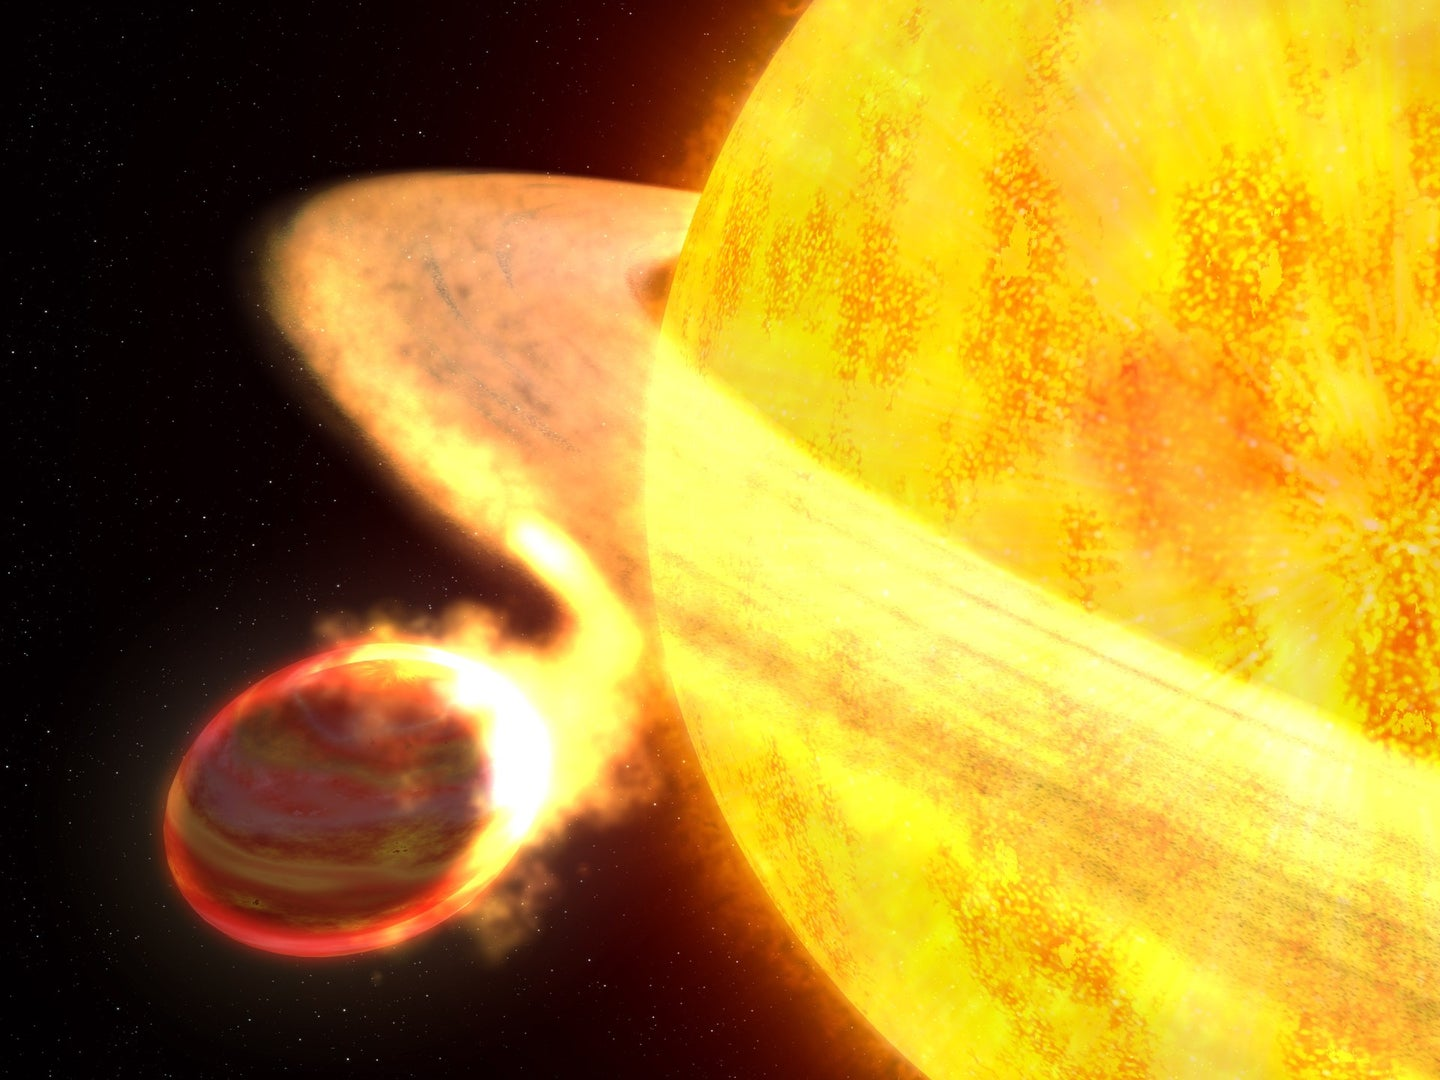
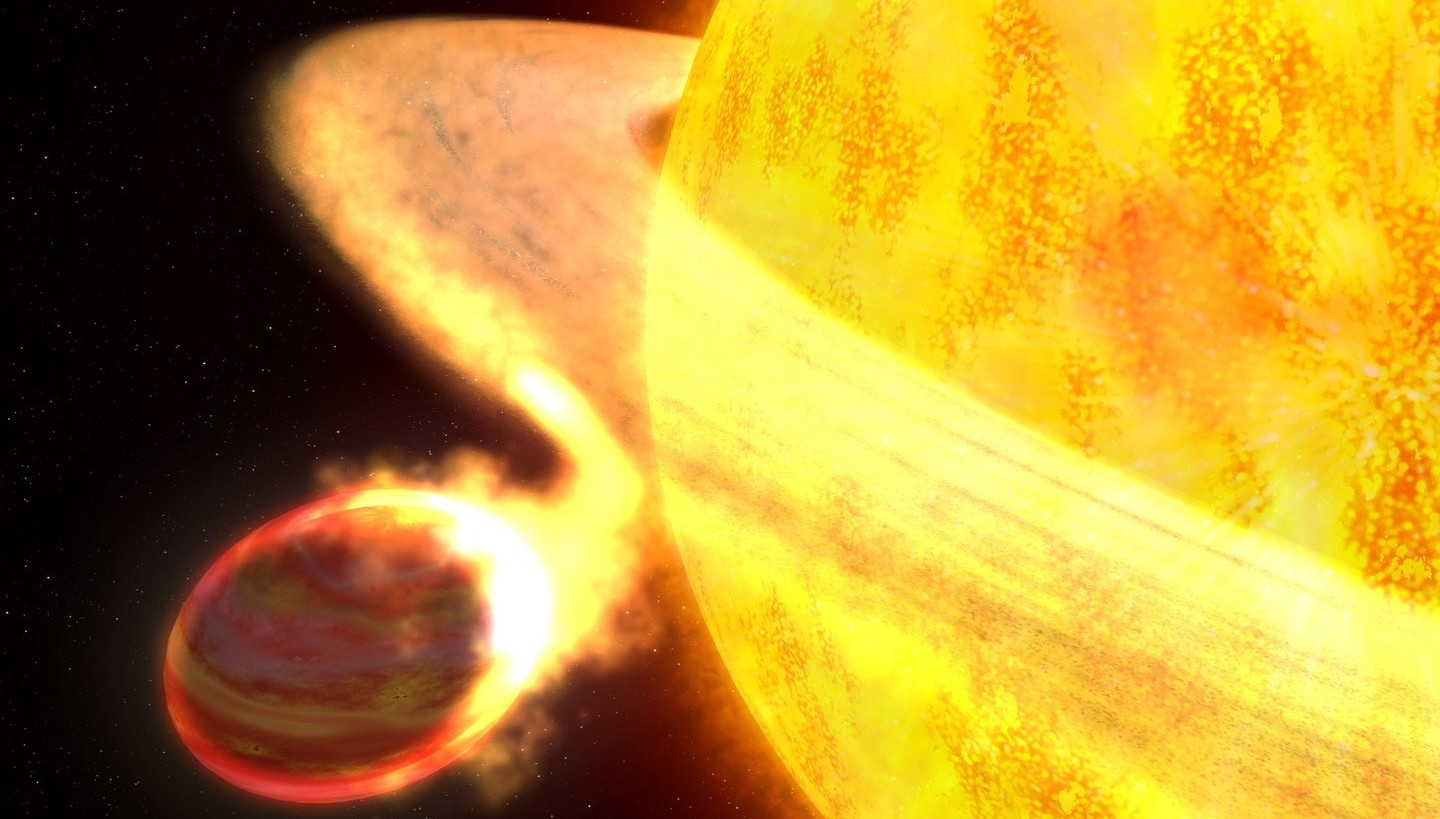
(CPSII) update

diff --git a/_pages/ComplexPlanetarySystemsII.md b/_pages/ComplexPlanetarySystemsII.md
@@ -8,33 +8,35 @@ permalink: /talks/ComplexPlanetarySystemsII
 <div class="jumbotron">
 <div class="col-md-12 col-sm-12" style="text-align:justify">
 <h4>Towards a complete picture of the evolution of planetary systems around evolved stars</h4>
-<img src="{{site.url}}{{site.baseurl}}/images/Talks/ComplexPlanetarySystemsII/HRsite.png" style="width:400px; min-width:39%; max-width:100%; margin-left:20px; margin-right:0px; margin-bottom:0px; margin-top:0px;" align="right"/>
-About 95% of all stars in the galaxy have an initial mass lower than 8 solar masses. When these stars evolve off the Main Sequence, they will go through the Asymptotic Giant Branch (AGB) phase, just before turning into a White Dwarf (WD). This phase is characterized by increased radii, high luminosities, intense pulsations, and significant mass loss. In order to get a complete picture of the evolution of planetary systems from the birth to the end of their host stars, as well as to comprehend the survival of planetary or stellar companions during this phase and explain the presence of planets orbiting white dwarfs, it is essential to examine the orbital evolution of these systems. Several factors come into play for studying orbital evolution around AGB stars, such as the significant stellar mass-loss rate, the efficiency of mass accretion onto the companion, and the tidal interactions between the star and its companion.
+<img src="{{site.url}}{{site.baseurl}}/images/Talks/ComplexPlanetarySystemsII/HRsite_transp.png" style="width:400px; min-width:39%; max-width:100%; margin-left:20px; margin-right:0px; margin-bottom:0px; margin-top:0px;" align="right"/>
+About 95% of all stars in the galaxy have an initial mass lower than 8 solar masses. When these stars evolve off the main sequence, they will go through the Asymptotic Giant Branch (AGB) phase, just before turning into a white dwarf.  This phase is characterized by increased radii, high luminosities, intense pulsations, and significant mass loss. In order to get a complete picture of the evolution of planetary systems from the birth to the end of their host stars, as well as to understand the survival of planetary or stellar companions during this phase and explain the presence of planets orbiting white dwarfs, it is essential to examine the orbital evolution of these systems. Several physical mechanisms come into play for studying orbital evolution around AGB stars, such as the significant stellar mass-loss rate, the efficiency of mass accretion onto the companion, and the tidal interactions between the star and its companion.
 </div>
 </div>
 
 
 <div class="jumbotron">
 <div class="col-md-12 col-sm-12" style="text-align:justify">
-<h4>3D simulations of AGB stellar winds</h4>
-<img src="{{site.url}}{{site.baseurl}}/images/Talks/ComplexPlanetarySystemsII/planet.png" style="width:260px; min-width:26%; max-width:100%; margin-left:0px; margin-right:20px; margin-bottom:0px; margin-top:5px;" align="left"/>
-AGB stars lose a significant amount of mass through the so-called dust-driven wind. Pulsations at the surface of AGB stars push material into sufficiently high layers where it is cool enough for molecules to condensate into dust. These dust particles are opague, such that they can be pushed outward by radiation pressure. Finally the dust particles collide with the remaining gas particles and create a steady outflow of material. These outflows from AGB stars exhibit complex structures, such as arcs, spirals. The current theory suggests that these complexities are caused by an unseen companion. To understand this phenomenon, complex 3D hydrochemical simulations are necessary to understand the influence a companion can have on the morphological structures of AGB outlows. These simulations also allow us to investigate the impact of the companion on the star's mass loss rate and the efficiency of accretion onto the companion. However, the existing simulations are computationally demanding, and ongoing efforts are concentrated on enhancing the computational speed.
+<h4>3D radiation-hydro-chemical simulations of AGB stellar outflows</h4>
+<img src="{{site.url}}{{site.baseurl}}/images/Research/2Dplotrho_orbital2.png" style="width:360px; min-width:30%; max-width:100%; margin-left:0px; margin-right:20px; margin-bottom:0px; margin-top:5px;" align="left"/>
+AGB stars lose a significant amount of mass through the so-called dust-driven wind. Pulsations at the surface of AGB stars push material into sufficiently high layers where it is cool enough for molecules to condensate into dust. These dust particles are opague, such that they can be pushed outward by radiation pressure. Finally the dust particles collide with the remaining gas particles and create a steady outflow of material. These outflows from AGB stars exhibit complex structures, such as arcs, spirals. The current theory suggests that these complexities are caused by an unseen companion. To understand this phenomenon, complex 3D radiation-hydro-chemical simulations are necessary to understand the influence a companion can have on the morphological structures of AGB outlows. These simulations will also allow us to investigate the impact of the companion on the star's mass loss rate and the efficiency of accretion onto the companion. However, the existing simulations are computationally demanding, and ongoing efforts are concentrated on enhancing the computational speed.
+
 </div>
 </div>
 
 
 <div class="jumbotron">
 <div class="col-md-12 col-sm-12" style="text-align:justify">
-<h4>Tidal dissipation around evolved stars</h4>
-<img src="{{site.url}}{{site.baseurl}}/images/Talks/ComplexPlanetarySystemsII/Tides.png" style="width:400px; min-width:39%; max-width:100%; margin-left:20px; margin-right:0px; margin-bottom:0px; margin-top:0px;" align="right"/>
-Tidal dissipation encompasses two components: equilibrium and dynamical tides. The former occurs due to the gravitational pull of the companion, causing a deformation of the star. Viscosity creates a tidal lag which facilitates transfer of angular momentum. The latter involves secondary effects, such as pulsations, which are influenced by the star’s internal structure. AGB stars possess a convective envelope exciting inertial modes and a radiative core exciting gravity waves in response to tides. The dissipation of these waves varies depending on the boundary conditions. While for main-sequence stars static boundary conditions are adequate, the substantial mass loss of AGB stars necessitates the exploration of more suitable boundary conditions.
+<h4>Identifying tidal dissipation mechanisms around evolved stars</h4>
+<img src="{{site.url}}{{site.baseurl}}/images/Talks/ComplexPlanetarySystemsII/NS_0051.png" style="width:190px; min-width:19%; max-width:41%; margin-left:0px; margin-right:0px; margin-bottom:-30px; margin-top:0px;" align="right"/>
+<img src="{{site.url}}{{site.baseurl}}/images/Talks/ComplexPlanetarySystemsII/geogebra-export.png" style="width:210px; min-width:21%; max-width:59%; margin-left:0px; margin-right:0px; margin-bottom:0px; margin-top:0px;" align="right"/>
+Tidal dissipation encompasses two components: equilibrium and dynamical tides. The former occurs due to hydrostatic displacement induced by the ellipsoidal deformation triggered by the companion. Its energy is dissipated because of turbulent friction in convective layers, generating transfer of angular momentum between the spin and the orbit. The latter involves other effects (sometimes more significant than the equilibrium tide), such as pulsations, which are influenced by the star’s internal structure, which can be seen on the figure on the left. AGB stars possess a convective envelope exciting inertial modes (only for stellar companions, as planetary companions don't spin up the the star sufficiently) and a radiative core exciting low-frequency gravity waves in response to tides. The figure on the right shows the important frequencies in this regard, showing the Brunt–Väisälä frequency, the Lamb frequency, and the tidal frequency our earth would have if it were to orbit an AGB star. The dissipation of these waves varies depending on the boundary conditions chosen for the star. While for main-sequence stars static boundary conditions are adequate, the substantial mass loss of AGB stars necessitates the exploration of more suitable boundary conditions, like a dynamical (mass losing) outer boundary.
 </div>
 </div>
 
 <div class="jumbotron">
 <div class="col-md-12 col-sm-12" style="text-align:justify">
-<h4>The connection between tides and mass loss</h4>
-AGB winds are driven by pulsations, and tides may induce pulsations. Hence tides can result in an increased mass-loss rate. Mass loss modifies the tidal dissipation boundary conditions. Hence, mass-loss may induce additional dissipation.
+<h4>The interplay between winds, pulsations, and tides</h4>
+Tidal dissipation and mass loss are not problems that can be treated separatly. The AGB's dust-driven winds are initiated by pulsations, while the presence of tides may induce additional pulsations. Hence tides can result in an increased mass-loss rate. On the other hand, mass loss may dissipate energy stored in tidal waves moving passing through the surface of the star (which is moddeled by a dynamical outer boundary). Hence, mass-loss may induce additional dissipation of tidal energy.
 </div>
 </div>
 
@@ -42,8 +44,13 @@ AGB winds are driven by pulsations, and tides may induce pulsations. Hence tides
 <div class="jumbotron">
 <div class="col-md-12 col-sm-12" style="text-align:justify">
 <h4>Towards a complete picture of the evolution of planetary systems around evolved stars</h4>
-<img src="{{site.url}}{{site.baseurl}}/images/Talks/ComplexPlanetarySystemsII/StarPlanet.jpg" style="width:380px; min-width:34%; max-width:100%; margin-left:0px; margin-right:20px; margin-bottom:0px; margin-top:5px;" align="left"/>
-In order to investigate the orbital evolution of companions around AGB stars, both mass loss and tidal dissipation play crucial roles. Complex simulations are essential for understanding how companions impact a star's mass loss rate, and the efficiency of accretion onto the companion. Tidal dissipation, which relies on internal structure and boundary conditions, requires further exploration regarding mass loss. The interplay between winds, pulsations, and tides signifies a mutual influence between mass loss and tidal dissipation, presenting a complex problem that demands further investigation.
+<img src="{{site.url}}{{site.baseurl}}/images/Talks/ComplexPlanetarySystemsII/StarPlanet.jpg" style="width:300px; min-width:30%; max-width:100%; margin-left:0px; margin-right:20px; margin-bottom:0px; margin-top:5px;" align="left"/>
+In order to investigate the orbital evolution of companions around AGB stars, both mass loss and tidal dissipation play crucial roles. Complex simulations are essential for understanding how companions impact the star's mass loss rate, and the efficiency of accretion onto the companion. Tidal dissipation, relying on internal structure and boundary conditions, requires additional studies regarding mass loss. The interplay between winds, pulsations, and tides signifies a mutual influence on mass loss and tidal dissipation, presenting a complex problem demanding a dedicated investigation.
+</div>
+</div>
+
+<div class="jumbotron">
+<div class="col-md-12 col-sm-12" style="text-align:justify">
 {% bibliography -f conferences -q @*[publisher=Complex Planetary Systems II – Kavli-IAU Symposium 382]%}
 </div>
 </div>
